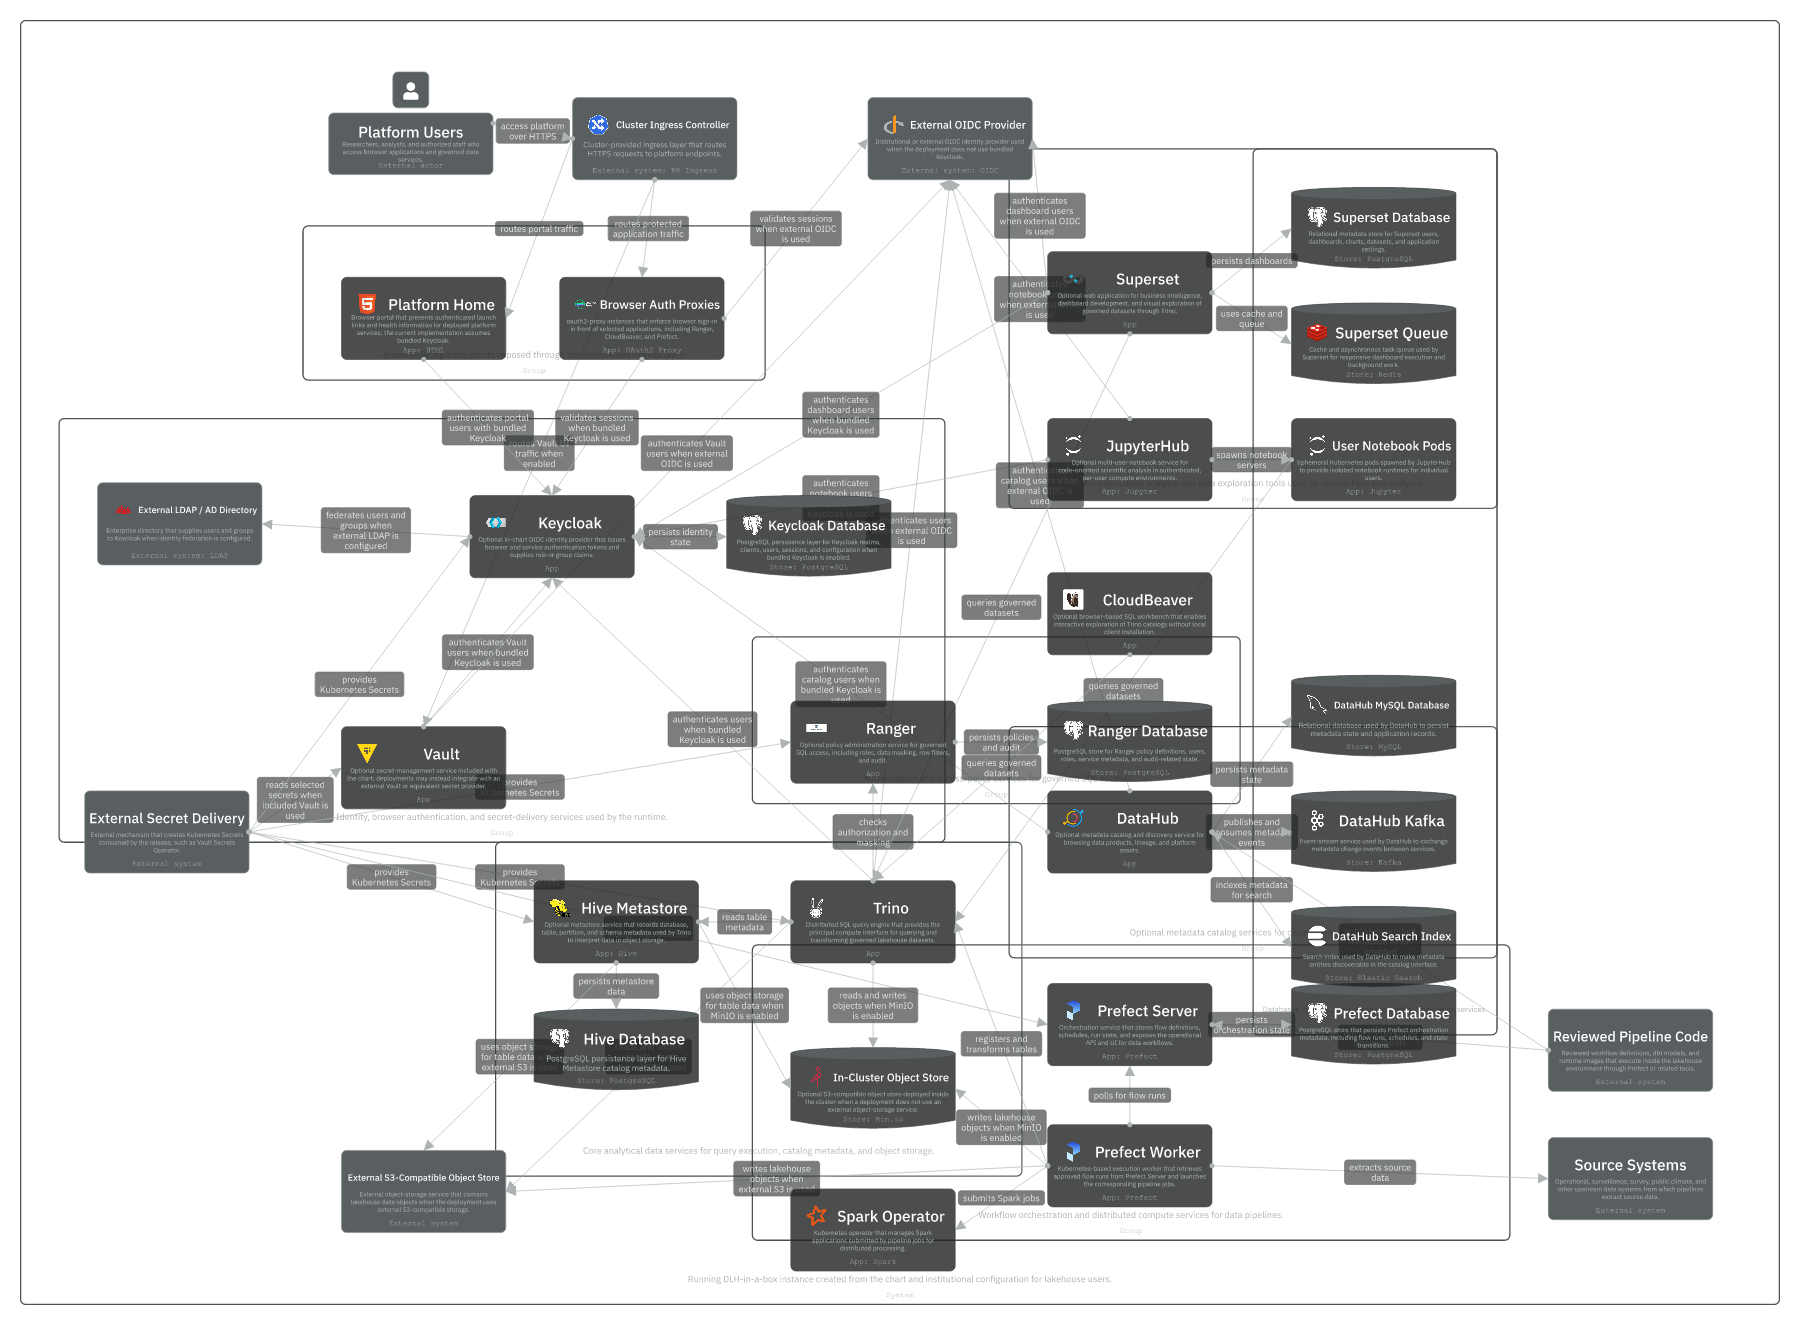
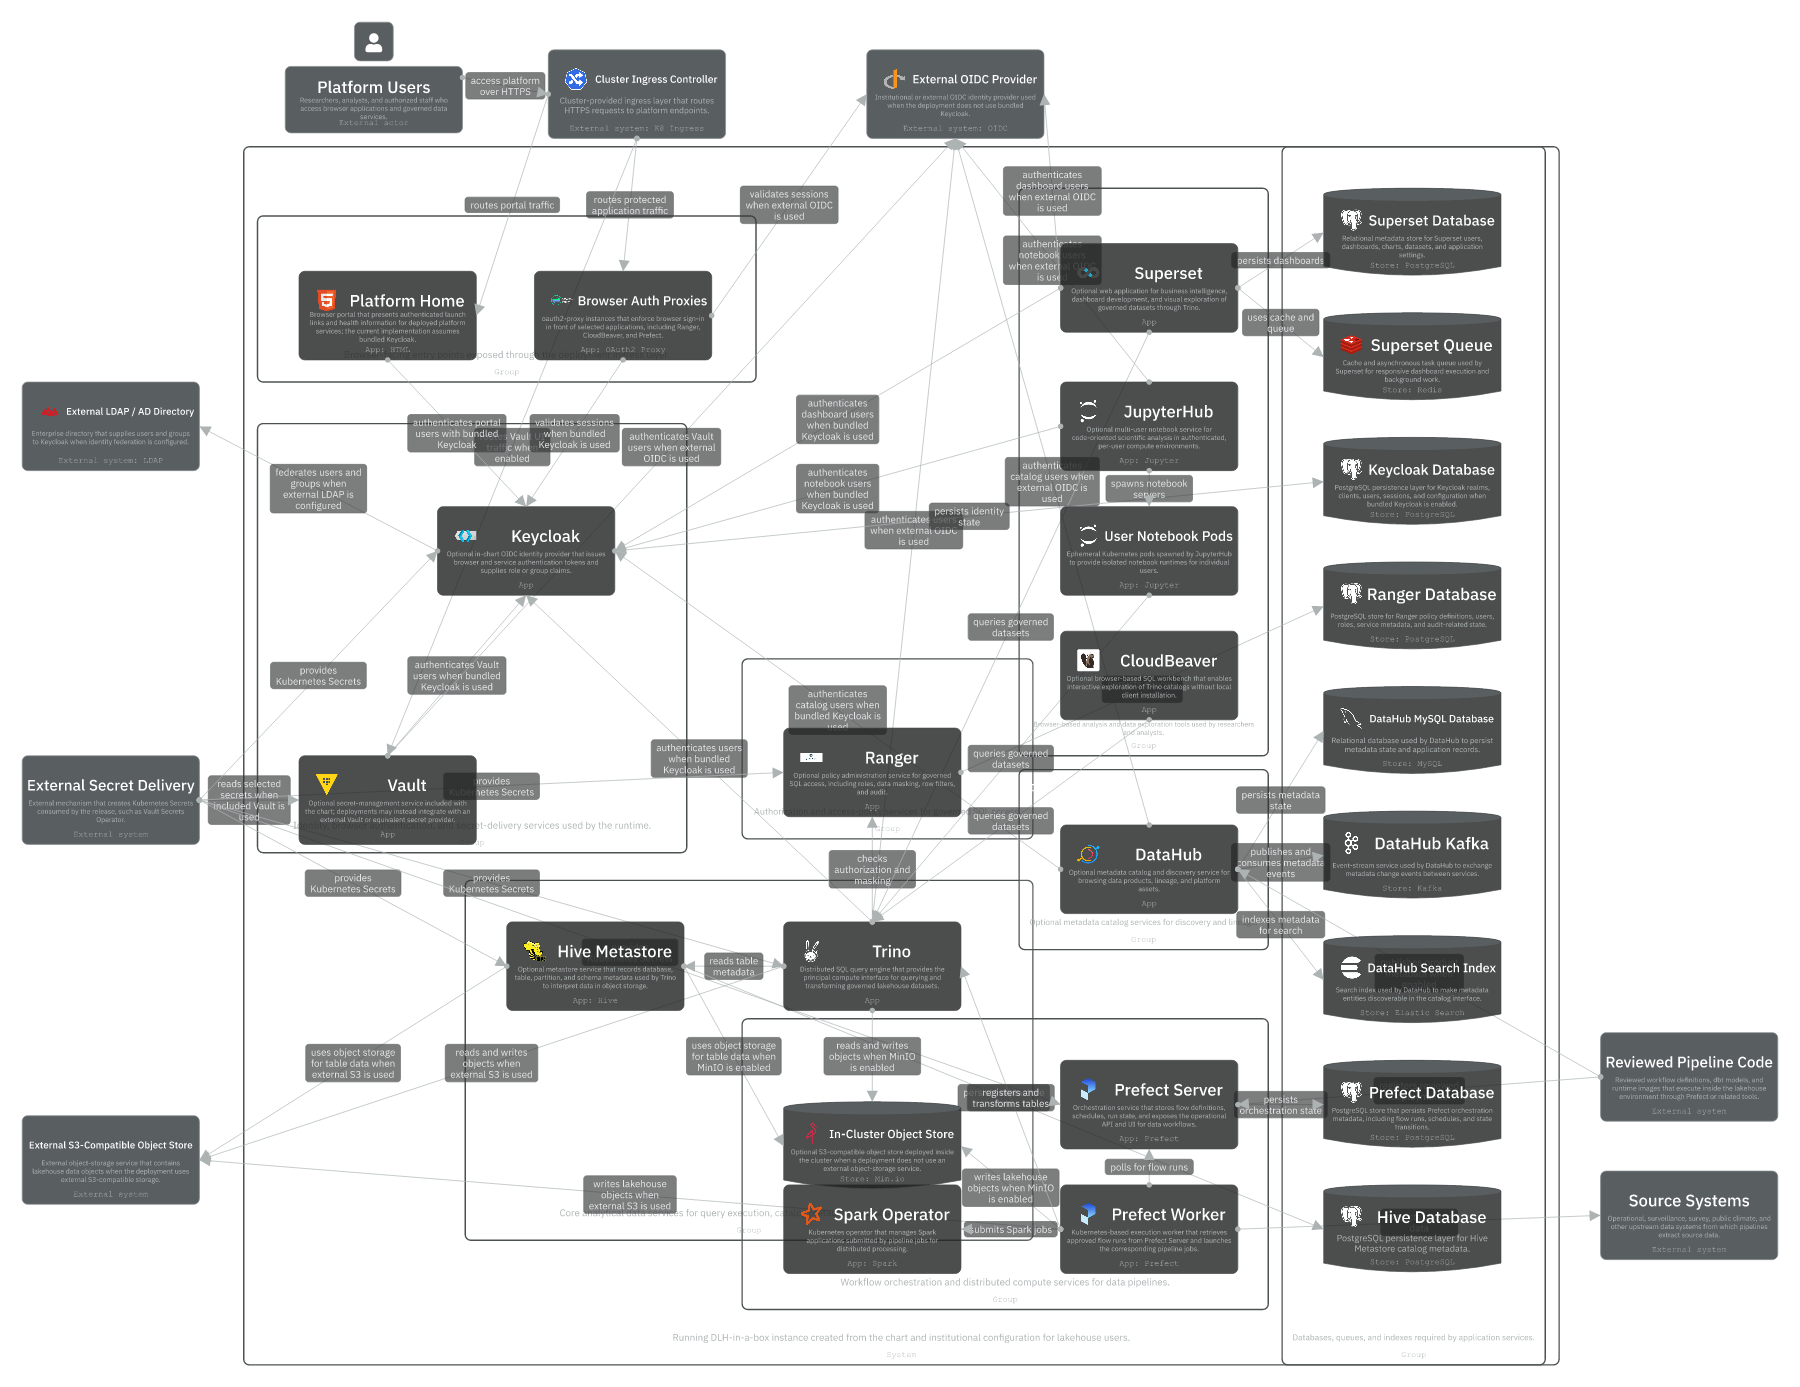
Fix IcePanel runtime grouping and boundaries

diff --git a/docs/architecture/validate_dlh_icepanel_json.py b/docs/architecture/validate_dlh_icepanel_json.py
@@ -31,6 +31,35 @@ KNOWN_TEAM_IDS = {
     "YD4KdnnwJtWane4R039f",  # Sanger PaM Data Engineering and Integration
     "yNlfFPPI683RFZ2aq3bk",  # icddr,b IT
 }
+RUNTIME_GROUP_BY_OBJECT = {
+    "DLH-R-PLATFORM-HOME": "DLH-G-runtime-BROWSER-ENTRY",
+    "DLH-R-AUTH-PROXIES": "DLH-G-runtime-BROWSER-ENTRY",
+    "DLH-R-KEYCLOAK": "DLH-G-runtime-IDENTITY-AND-SECRETS",
+    "DLH-R-VAULT": "DLH-G-runtime-IDENTITY-AND-SECRETS",
+    "DLH-R-RANGER": "DLH-G-runtime-GOVERNANCE",
+    "DLH-R-TRINO": "DLH-G-runtime-LAKEHOUSE-CORE",
+    "DLH-R-HIVE": "DLH-G-runtime-LAKEHOUSE-CORE",
+    "DLH-R-MINIO": "DLH-G-runtime-LAKEHOUSE-CORE",
+    "DLH-R-SUPERSET": "DLH-G-runtime-ANALYSIS-TOOLS",
+    "DLH-R-JUPYTERHUB": "DLH-G-runtime-ANALYSIS-TOOLS",
+    "DLH-R-JUPYTER-PODS": "DLH-G-runtime-ANALYSIS-TOOLS",
+    "DLH-R-CLOUDBEAVER": "DLH-G-runtime-ANALYSIS-TOOLS",
+    "DLH-R-PREFECT-SERVER": "DLH-G-runtime-ORCHESTRATION-AND-COMPUTE",
+    "DLH-R-PREFECT-WORKER": "DLH-G-runtime-ORCHESTRATION-AND-COMPUTE",
+    "DLH-R-SPARK-OPERATOR": "DLH-G-runtime-ORCHESTRATION-AND-COMPUTE",
+    "DLH-R-DATAHUB": "DLH-G-runtime-DISCOVERY",
+    "DLH-R-KEYCLOAK-DB": "DLH-G-runtime-SUPPORT-SERVICES-AND-STORES",
+    "DLH-R-RANGER-DB": "DLH-G-runtime-SUPPORT-SERVICES-AND-STORES",
+    "DLH-R-HIVE-DB": "DLH-G-runtime-SUPPORT-SERVICES-AND-STORES",
+    "DLH-R-SUPERSET-DB": "DLH-G-runtime-SUPPORT-SERVICES-AND-STORES",
+    "DLH-R-SUPERSET-REDIS": "DLH-G-runtime-SUPPORT-SERVICES-AND-STORES",
+    "DLH-R-PREFECT-DB": "DLH-G-runtime-SUPPORT-SERVICES-AND-STORES",
+    "DLH-R-DATAHUB-MYSQL": "DLH-G-runtime-SUPPORT-SERVICES-AND-STORES",
+    "DLH-R-DATAHUB-KAFKA": "DLH-G-runtime-SUPPORT-SERVICES-AND-STORES",
+    "DLH-R-DATAHUB-ELASTICSEARCH": "DLH-G-runtime-SUPPORT-SERVICES-AND-STORES",
+}
+RUNTIME_GROUP_IDS = set(RUNTIME_GROUP_BY_OBJECT.values())
+SUPPORT_GROUP_ID = "DLH-G-runtime-SUPPORT-SERVICES-AND-STORES"
 
 
 def load_json(path: Path) -> Any:
@@ -133,6 +162,8 @@ def validate_semantics(model: dict[str, Any]) -> list[str]:
     connection_ids = [item["id"] for item in model["connections"]]
     diagram_keys = [item["key"] for item in model["diagrams"]]
     export_filenames = [item["exportFilename"] for item in model["diagrams"]]
+    object_by_id = {item["id"]: item for item in model["objects"]}
+    connection_by_id = {item["id"]: item for item in model["connections"]}
 
     for label, values in [
         ("object id", object_ids),
@@ -171,7 +202,7 @@ def validate_semantics(model: dict[str, Any]) -> list[str]:
             if group_id not in object_id_set:
                 errors.append(f"object {item['id']} group does not exist: {group_id}")
                 continue
-            group = next(obj for obj in model["objects"] if obj["id"] == group_id)
+            group = object_by_id[group_id]
             if group["type"] != "group":
                 errors.append(f"object {item['id']} group is not a group object: {group_id}")
             if item["type"] == "group":
@@ -195,24 +226,133 @@ def validate_semantics(model: dict[str, Any]) -> list[str]:
     for item in model["connections"]:
         if item["origin"] not in object_id_set:
             errors.append(f"connection {item['id']} origin does not exist: {item['origin']}")
+        elif object_by_id[item["origin"]]["type"] == "group":
+            errors.append(f"connection {item['id']} origin must not be a group: {item['origin']}")
         if item["target"] not in object_id_set:
             errors.append(f"connection {item['id']} target does not exist: {item['target']}")
+        elif object_by_id[item["target"]]["type"] == "group":
+            errors.append(f"connection {item['id']} target must not be a group: {item['target']}")
 
     for item in model["diagrams"]:
         model_object = item.get("modelObject")
         if model_object is not None and model_object not in object_id_set:
             errors.append(f"diagram {item['key']} modelObject does not exist: {model_object}")
+        diagram_object_ids = set(item["objects"])
         for object_id in item["objects"]:
             if object_id not in object_id_set:
                 errors.append(f"diagram {item['key']} object does not exist: {object_id}")
         for connection_id in item["connections"]:
             if connection_id not in connection_id_set:
                 errors.append(f"diagram {item['key']} connection does not exist: {connection_id}")
+                continue
+            connection = connection_by_id[connection_id]
+            if connection["origin"] not in diagram_object_ids:
+                errors.append(
+                    f"diagram {item['key']} connection {connection_id} origin is not shown: {connection['origin']}"
+                )
+            if connection["target"] not in diagram_object_ids:
+                errors.append(
+                    f"diagram {item['key']} connection {connection_id} target is not shown: {connection['target']}"
+                )
+        errors.extend(validate_parent_area(item, object_by_id))
+
+    errors.extend(validate_runtime_groups(model, object_by_id))
 
     if len(model["diagrams"]) != 9:
         errors.append(f"expected 9 official diagrams, found {len(model['diagrams'])}")
 
     return errors
+
+
+def validate_parent_area(
+    diagram: dict[str, Any],
+    object_by_id: dict[str, dict[str, Any]],
+) -> list[str]:
+    errors: list[str] = []
+    parent_area = diagram.get("parentAreaBounds")
+    model_object = diagram.get("modelObject")
+    if not parent_area or not model_object:
+        return errors
+
+    for object_id in diagram["objects"]:
+        obj = object_by_id.get(object_id)
+        if not obj:
+            continue
+        layout = (obj.get("layout") or {}).get(diagram["key"])
+        if not layout:
+            errors.append(
+                f"diagram {diagram['key']} object {object_id} has no explicit layout"
+            )
+            continue
+        if obj.get("parent") == model_object and not box_contains(parent_area, layout):
+            errors.append(
+                f"diagram {diagram['key']} child object {object_id} is outside its parent area"
+            )
+        if obj.get("external") and box_intersects(parent_area, layout):
+            errors.append(
+                f"diagram {diagram['key']} external object {object_id} intersects its parent area"
+            )
+        if object_id in RUNTIME_GROUP_IDS and not box_contains(parent_area, layout):
+            errors.append(
+                f"diagram {diagram['key']} runtime group {object_id} is outside its parent area"
+            )
+    return errors
+
+
+def validate_runtime_groups(
+    model: dict[str, Any],
+    object_by_id: dict[str, dict[str, Any]],
+) -> list[str]:
+    errors: list[str] = []
+    for obj in model["objects"]:
+        runtime_groups = [group for group in obj.get("groups", []) if group in RUNTIME_GROUP_IDS]
+        expected_group = RUNTIME_GROUP_BY_OBJECT.get(obj["id"])
+        if expected_group and runtime_groups != [expected_group]:
+            errors.append(
+                f"object {obj['id']} must belong only to runtime group {expected_group}; got {runtime_groups}"
+            )
+        if not expected_group and runtime_groups:
+            errors.append(f"object {obj['id']} has unexpected runtime groups: {runtime_groups}")
+
+    support_members = sorted(
+        obj["id"] for obj in model["objects"] if SUPPORT_GROUP_ID in (obj.get("groups") or [])
+    )
+    expected_support_members = sorted(
+        object_id
+        for object_id, group_id in RUNTIME_GROUP_BY_OBJECT.items()
+        if group_id == SUPPORT_GROUP_ID
+    )
+    if support_members != expected_support_members:
+        errors.append(
+            "support-services group membership mismatch: "
+            f"expected {expected_support_members}, got {support_members}"
+        )
+
+    runtime_diagrams = [diagram for diagram in model["diagrams"] if diagram["key"] == "runtime"]
+    if runtime_diagrams:
+        for object_id in runtime_diagrams[0]["objects"]:
+            obj = object_by_id.get(object_id)
+            if obj and obj.get("parent") == "DLH-L1-RUNTIME" and object_id not in RUNTIME_GROUP_BY_OBJECT:
+                errors.append(f"runtime object {object_id} has no explicit runtime group policy")
+    return errors
+
+
+def box_contains(outer: dict[str, int], inner: dict[str, int]) -> bool:
+    return (
+        inner["x"] >= outer["x"]
+        and inner["y"] >= outer["y"]
+        and inner["x"] + inner["width"] <= outer["x"] + outer["width"]
+        and inner["y"] + inner["height"] <= outer["y"] + outer["height"]
+    )
+
+
+def box_intersects(first: dict[str, int], second: dict[str, int]) -> bool:
+    return not (
+        second["x"] + second["width"] <= first["x"]
+        or second["x"] >= first["x"] + first["width"]
+        or second["y"] + second["height"] <= first["y"]
+        or second["y"] >= first["y"] + first["height"]
+    )
 
 
 def github_main_path(url: str) -> str | None:

diff --git a/docs/architecture/sync_dlh_icepanel.py b/docs/architecture/sync_dlh_icepanel.py
@@ -55,7 +55,7 @@ DIAGRAM_EXPORT_FILENAMES = {
 }
 
 DIAGRAM_BOUNDS = {
-    "chart-product": {"x": -380, "y": -360, "width": 2580, "height": 900},
+    "chart-product": {"x": -380, "y": -360, "width": 2860, "height": 900},
     "runtime": {"x": -420, "y": -980, "width": 2740, "height": 2000},
     "chart-source": {"x": 0, "y": 0, "width": 1480, "height": 840},
     "packaged-dependencies": {"x": 0, "y": 0, "width": 1480, "height": 660},
@@ -66,6 +66,11 @@ DIAGRAM_BOUNDS = {
 }
 
 DEFAULT_DIAGRAM_BOUNDS = {"x": -160, "y": -160, "width": 1480, "height": 920}
+
+PARENT_AREA_BOUNDS = {
+    "chart-product": {"x": 600, "y": -340, "width": 1520, "height": 860},
+    "runtime": {"x": 0, "y": -760, "width": 1900, "height": 1760},
+}
 
 
 @dataclass
@@ -116,6 +121,7 @@ class DiagramSpec:
     description: str = ""
     export_filename: str = ""
     bounds: dict[str, int] = field(default_factory=dict)
+    parent_area_bounds: dict[str, int] = field(default_factory=dict)
 
 
 @dataclass
@@ -642,6 +648,8 @@ def canonicalize_source_model(
             export_filename=diagram.export_filename
             or DIAGRAM_EXPORT_FILENAMES.get(diagram.key, f"{diagram.key}.png"),
             bounds=diagram.bounds or DIAGRAM_BOUNDS.get(diagram.key, DEFAULT_DIAGRAM_BOUNDS),
+            parent_area_bounds=diagram.parent_area_bounds
+            or PARENT_AREA_BOUNDS.get(diagram.key, {}),
         )
 
     return SourceModel(
@@ -730,6 +738,7 @@ def parse_json_source_model(path: Path) -> SourceModel:
             description=item.get("description", ""),
             export_filename=item.get("exportFilename", ""),
             bounds=normalize_bounds(item.get("bounds") or {}),
+            parent_area_bounds=normalize_bounds(item.get("parentAreaBounds") or {}),
         )
 
     source = canonicalize_source_model(objects, connections, diagrams)
@@ -804,22 +813,23 @@ def source_model_to_json(source: SourceModel, source_file: str) -> dict[str, Any
 
     diagrams = []
     for key, diagram in source.diagrams.items():
-        diagrams.append(
-            {
-                "key": key,
-                "name": diagram.name,
-                "type": diagram.type,
-                "modelObject": None
-                if diagram.model_source_id == ROOT_PARENT
-                else diagram.model_source_id,
-                "objects": diagram.object_source_ids,
-                "connections": diagram.connection_source_ids,
-                "description": diagram.description,
-                "bounds": diagram.bounds or DIAGRAM_BOUNDS.get(key, DEFAULT_DIAGRAM_BOUNDS),
-                "exportFilename": diagram.export_filename
-                or DIAGRAM_EXPORT_FILENAMES.get(key, f"{key}.png"),
-            }
-        )
+        item = {
+            "key": key,
+            "name": diagram.name,
+            "type": diagram.type,
+            "modelObject": None
+            if diagram.model_source_id == ROOT_PARENT
+            else diagram.model_source_id,
+            "objects": diagram.object_source_ids,
+            "connections": diagram.connection_source_ids,
+            "description": diagram.description,
+            "bounds": diagram.bounds or DIAGRAM_BOUNDS.get(key, DEFAULT_DIAGRAM_BOUNDS),
+            "exportFilename": diagram.export_filename
+            or DIAGRAM_EXPORT_FILENAMES.get(key, f"{key}.png"),
+        }
+        if diagram.parent_area_bounds:
+            item["parentAreaBounds"] = diagram.parent_area_bounds
+        diagrams.append(item)
 
     return {
         "$schema": "./dlh-in-a-box.schema.json",
@@ -1630,7 +1640,7 @@ class SyncRunner:
         return content
 
     def parent_area_object(self, diagram: DiagramSpec, model_id: str) -> dict[str, Any]:
-        bounds = self.diagram_bounds(diagram.key)
+        bounds = diagram.parent_area_bounds or self.diagram_bounds(diagram.key)
         source_obj = self.source.objects.get(diagram.model_source_id)
         object_type = source_obj.type if source_obj else "system"
         return {
@@ -1814,42 +1824,43 @@ EXPLICIT_POSITIONS: dict[str, dict[str, dict[str, int]]] = {
         "DLH-C2-VALIDATION": pos(1060, 20),
         "DLH-C2-PUBLISH": pos(1400, 20),
         "DLH-C2-OCI-PACKAGE": pos(1780, -120),
-        "DLH-X-CONSUMER-REPO": pos(1780, 140),
+        "DLH-L1-CONSUMER-REPO": pos(2180, 140),
+        "DLH-X-CONSUMER-REPO": pos(2180, 140),
     },
     "runtime": {
-        "DLH-X-USERS": pos(60, -900, height=160),
-        "DLH-X-INGRESS-CONTROLLER": pos(440, -860),
-        "DLH-X-OIDC": pos(900, -860),
-        "DLH-X-LDAP": pos(-300, -260),
-        "DLH-X-SECRET-SYNC": pos(-320, 220),
-        "DLH-X-OBJECT-STORAGE": pos(80, 780),
-        "DLH-X-SOURCE-SYSTEMS": pos(1960, 760),
-        "DLH-X-PIPELINE-CODE": pos(1960, 560),
+        "DLH-X-USERS": pos(60, -940, height=160),
+        "DLH-X-INGRESS-CONTROLLER": pos(440, -900),
+        "DLH-X-OIDC": pos(900, -900),
+        "DLH-X-LDAP": pos(-320, -420),
+        "DLH-X-SECRET-SYNC": pos(-320, 120),
+        "DLH-X-OBJECT-STORAGE": pos(-320, 640),
+        "DLH-X-SOURCE-SYSTEMS": pos(1960, 720),
+        "DLH-X-PIPELINE-CODE": pos(1960, 520),
         "DLH-R-PLATFORM-HOME": pos(80, -580),
         "DLH-R-AUTH-PROXIES": pos(420, -580),
         "DLH-R-KEYCLOAK": pos(280, -240),
-        "DLH-R-KEYCLOAK-DB": pos(680, -240),
+        "DLH-R-KEYCLOAK-DB": pos(1560, -340),
         "DLH-R-VAULT": pos(80, 120),
         "DLH-R-RANGER": pos(780, 80),
-        "DLH-R-RANGER-DB": pos(1180, 80),
+        "DLH-R-RANGER-DB": pos(1560, -160),
         "DLH-R-TRINO": pos(780, 360),
         "DLH-R-HIVE": pos(380, 360),
-        "DLH-R-HIVE-DB": pos(380, 560),
+        "DLH-R-HIVE-DB": pos(1560, 740),
         "DLH-R-MINIO": pos(780, 620),
         "DLH-R-SUPERSET": pos(1180, -620),
-        "DLH-R-SUPERSET-DB": pos(1560, -720),
-        "DLH-R-SUPERSET-REDIS": pos(1560, -540),
-        "DLH-R-JUPYTERHUB": pos(1180, -360),
-        "DLH-R-JUPYTER-PODS": pos(1560, -360),
-        "DLH-R-CLOUDBEAVER": pos(1180, -120),
-        "DLH-R-PREFECT-SERVER": pos(1180, 520),
-        "DLH-R-PREFECT-DB": pos(1560, 520),
+        "DLH-R-SUPERSET-DB": pos(1560, -700),
+        "DLH-R-SUPERSET-REDIS": pos(1560, -520),
+        "DLH-R-JUPYTERHUB": pos(1180, -420),
+        "DLH-R-JUPYTER-PODS": pos(1180, -240),
+        "DLH-R-CLOUDBEAVER": pos(1180, -60),
+        "DLH-R-PREFECT-SERVER": pos(1180, 560),
+        "DLH-R-PREFECT-DB": pos(1560, 560),
         "DLH-R-PREFECT-WORKER": pos(1180, 740),
-        "DLH-R-SPARK-OPERATOR": pos(780, 840),
+        "DLH-R-SPARK-OPERATOR": pos(780, 740),
         "DLH-R-DATAHUB": pos(1180, 220),
-        "DLH-R-DATAHUB-MYSQL": pos(1560, 40),
-        "DLH-R-DATAHUB-KAFKA": pos(1560, 220),
-        "DLH-R-DATAHUB-ELASTICSEARCH": pos(1560, 400),
+        "DLH-R-DATAHUB-MYSQL": pos(1560, 20),
+        "DLH-R-DATAHUB-KAFKA": pos(1560, 200),
+        "DLH-R-DATAHUB-ELASTICSEARCH": pos(1560, 380),
     },
 }
 
@@ -1863,13 +1874,13 @@ EXPLICIT_GROUP_POSITIONS: dict[str, dict[str, dict[str, int]]] = {
     },
     "runtime": {
         "DLH-G-runtime-BROWSER-ENTRY": pos(20, -660, 720, 240),
-        "DLH-G-runtime-IDENTITY-AND-SECRETS": pos(-360, -360, 1380, 660),
-        "DLH-G-runtime-GOVERNANCE": pos(720, -20, 760, 260),
+        "DLH-G-runtime-IDENTITY-AND-SECRETS": pos(20, -360, 620, 620),
+        "DLH-G-runtime-GOVERNANCE": pos(720, -20, 420, 260),
         "DLH-G-runtime-LAKEHOUSE-CORE": pos(320, 300, 820, 520),
-        "DLH-G-runtime-ANALYSIS-TOOLS": pos(1120, -780, 760, 560),
-        "DLH-G-runtime-ORCHESTRATION-AND-COMPUTE": pos(720, 460, 1180, 460),
-        "DLH-G-runtime-DISCOVERY": pos(1120, 120, 760, 360),
-        "DLH-G-runtime-SUPPORT-SERVICES-AND-STORES": pos(1500, -780, 380, 1380),
+        "DLH-G-runtime-ANALYSIS-TOOLS": pos(1120, -700, 360, 820),
+        "DLH-G-runtime-ORCHESTRATION-AND-COMPUTE": pos(720, 500, 760, 420),
+        "DLH-G-runtime-DISCOVERY": pos(1120, 140, 360, 260),
+        "DLH-G-runtime-SUPPORT-SERVICES-AND-STORES": pos(1500, -760, 380, 1760),
     },
 }
 
